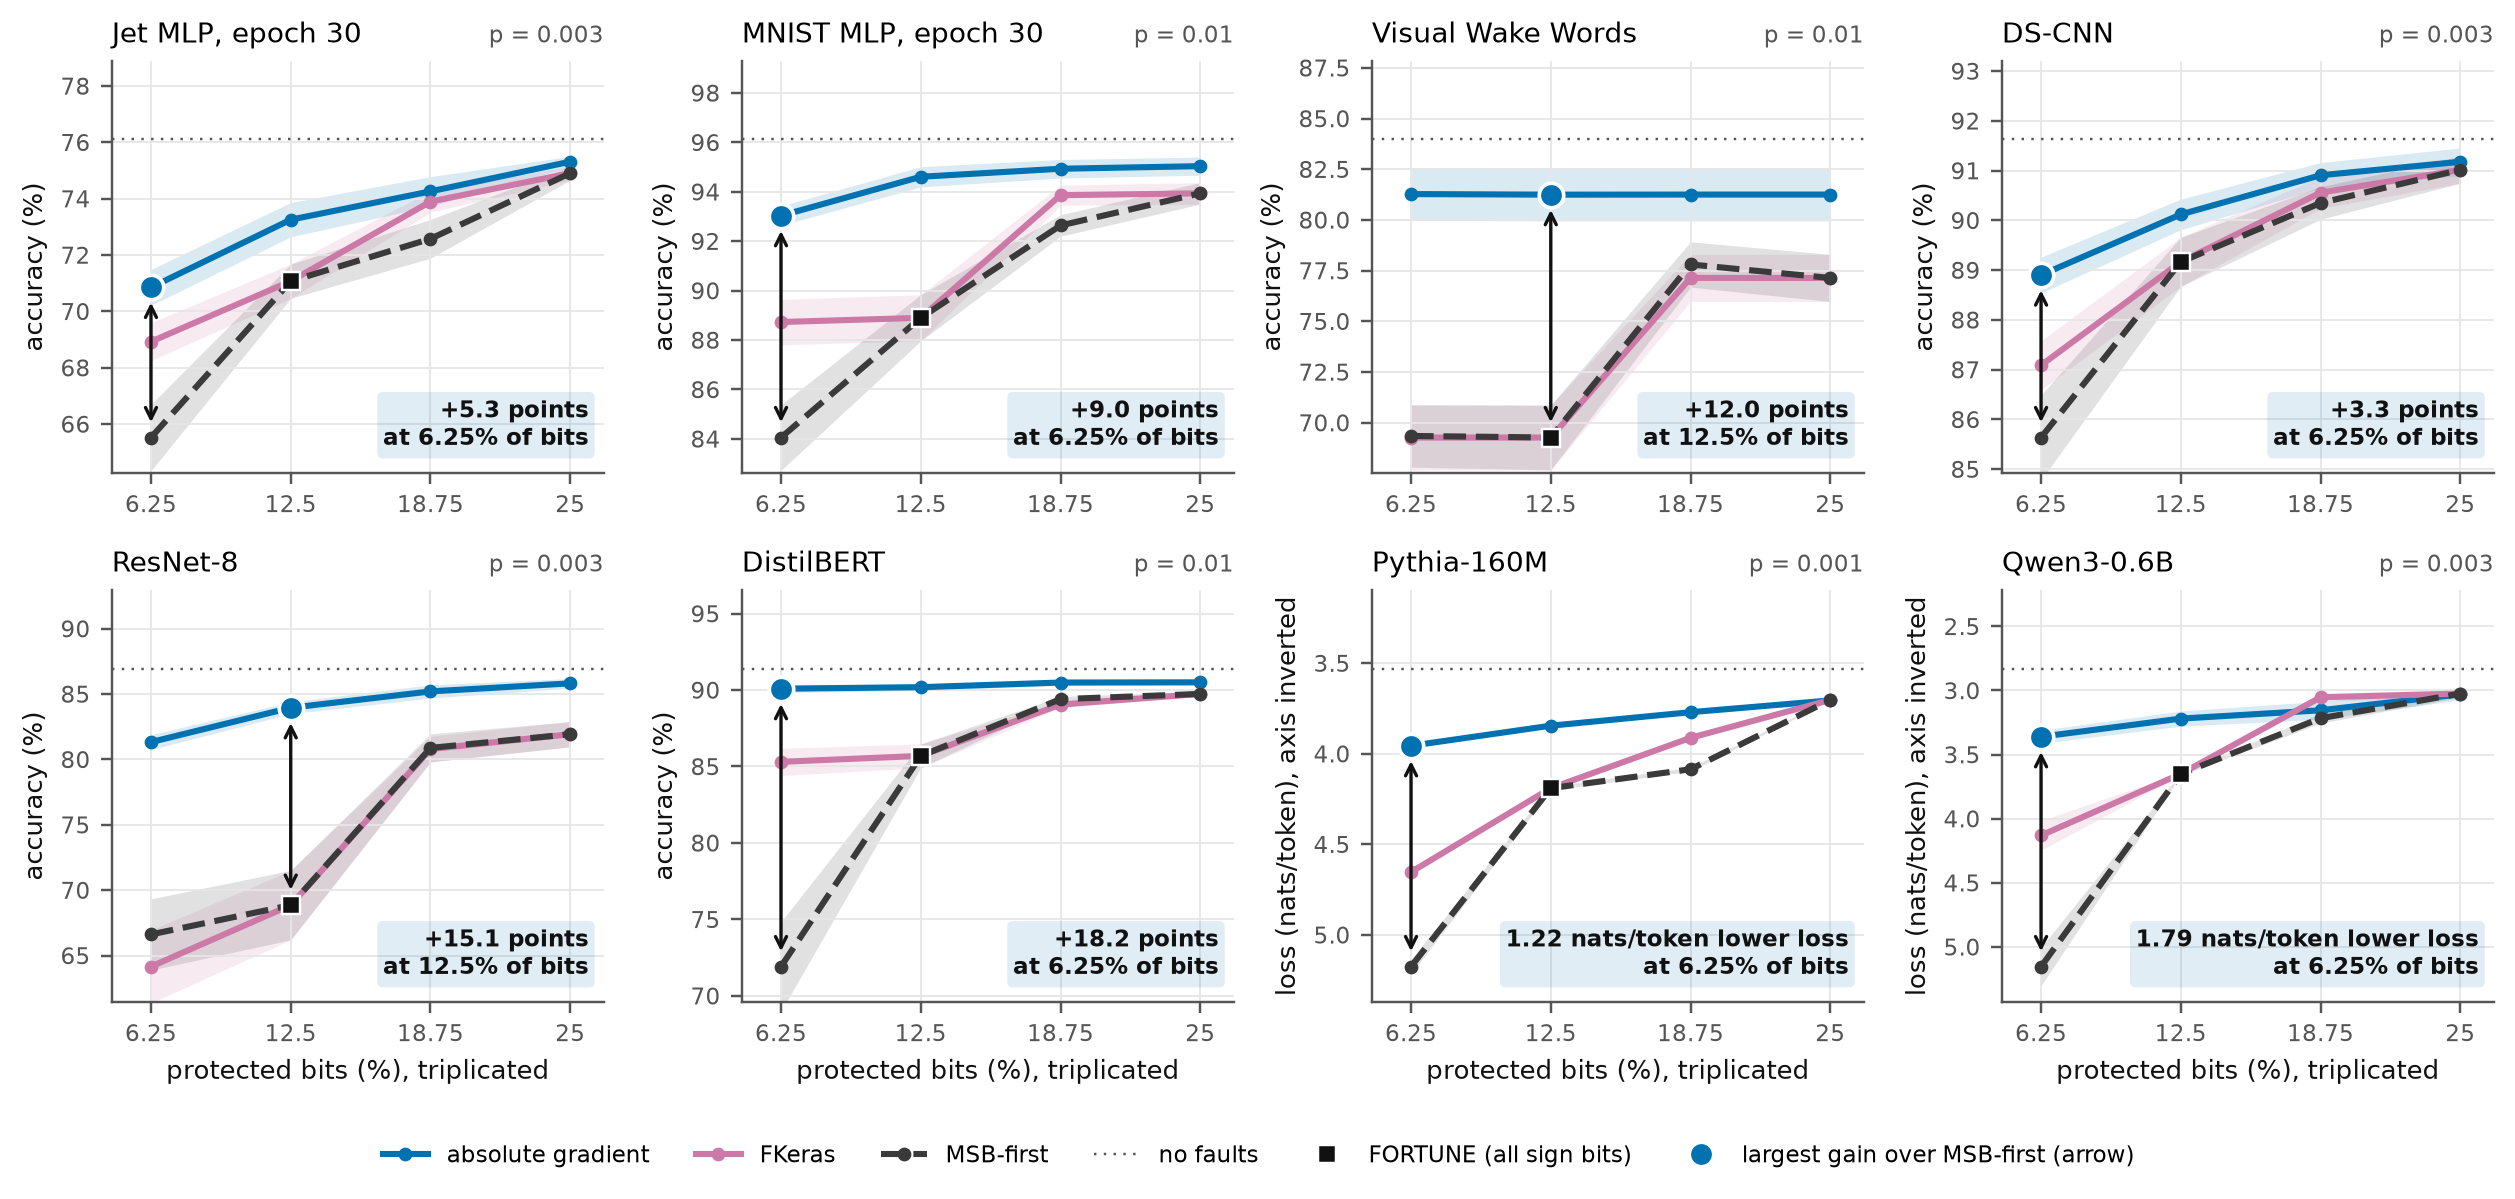
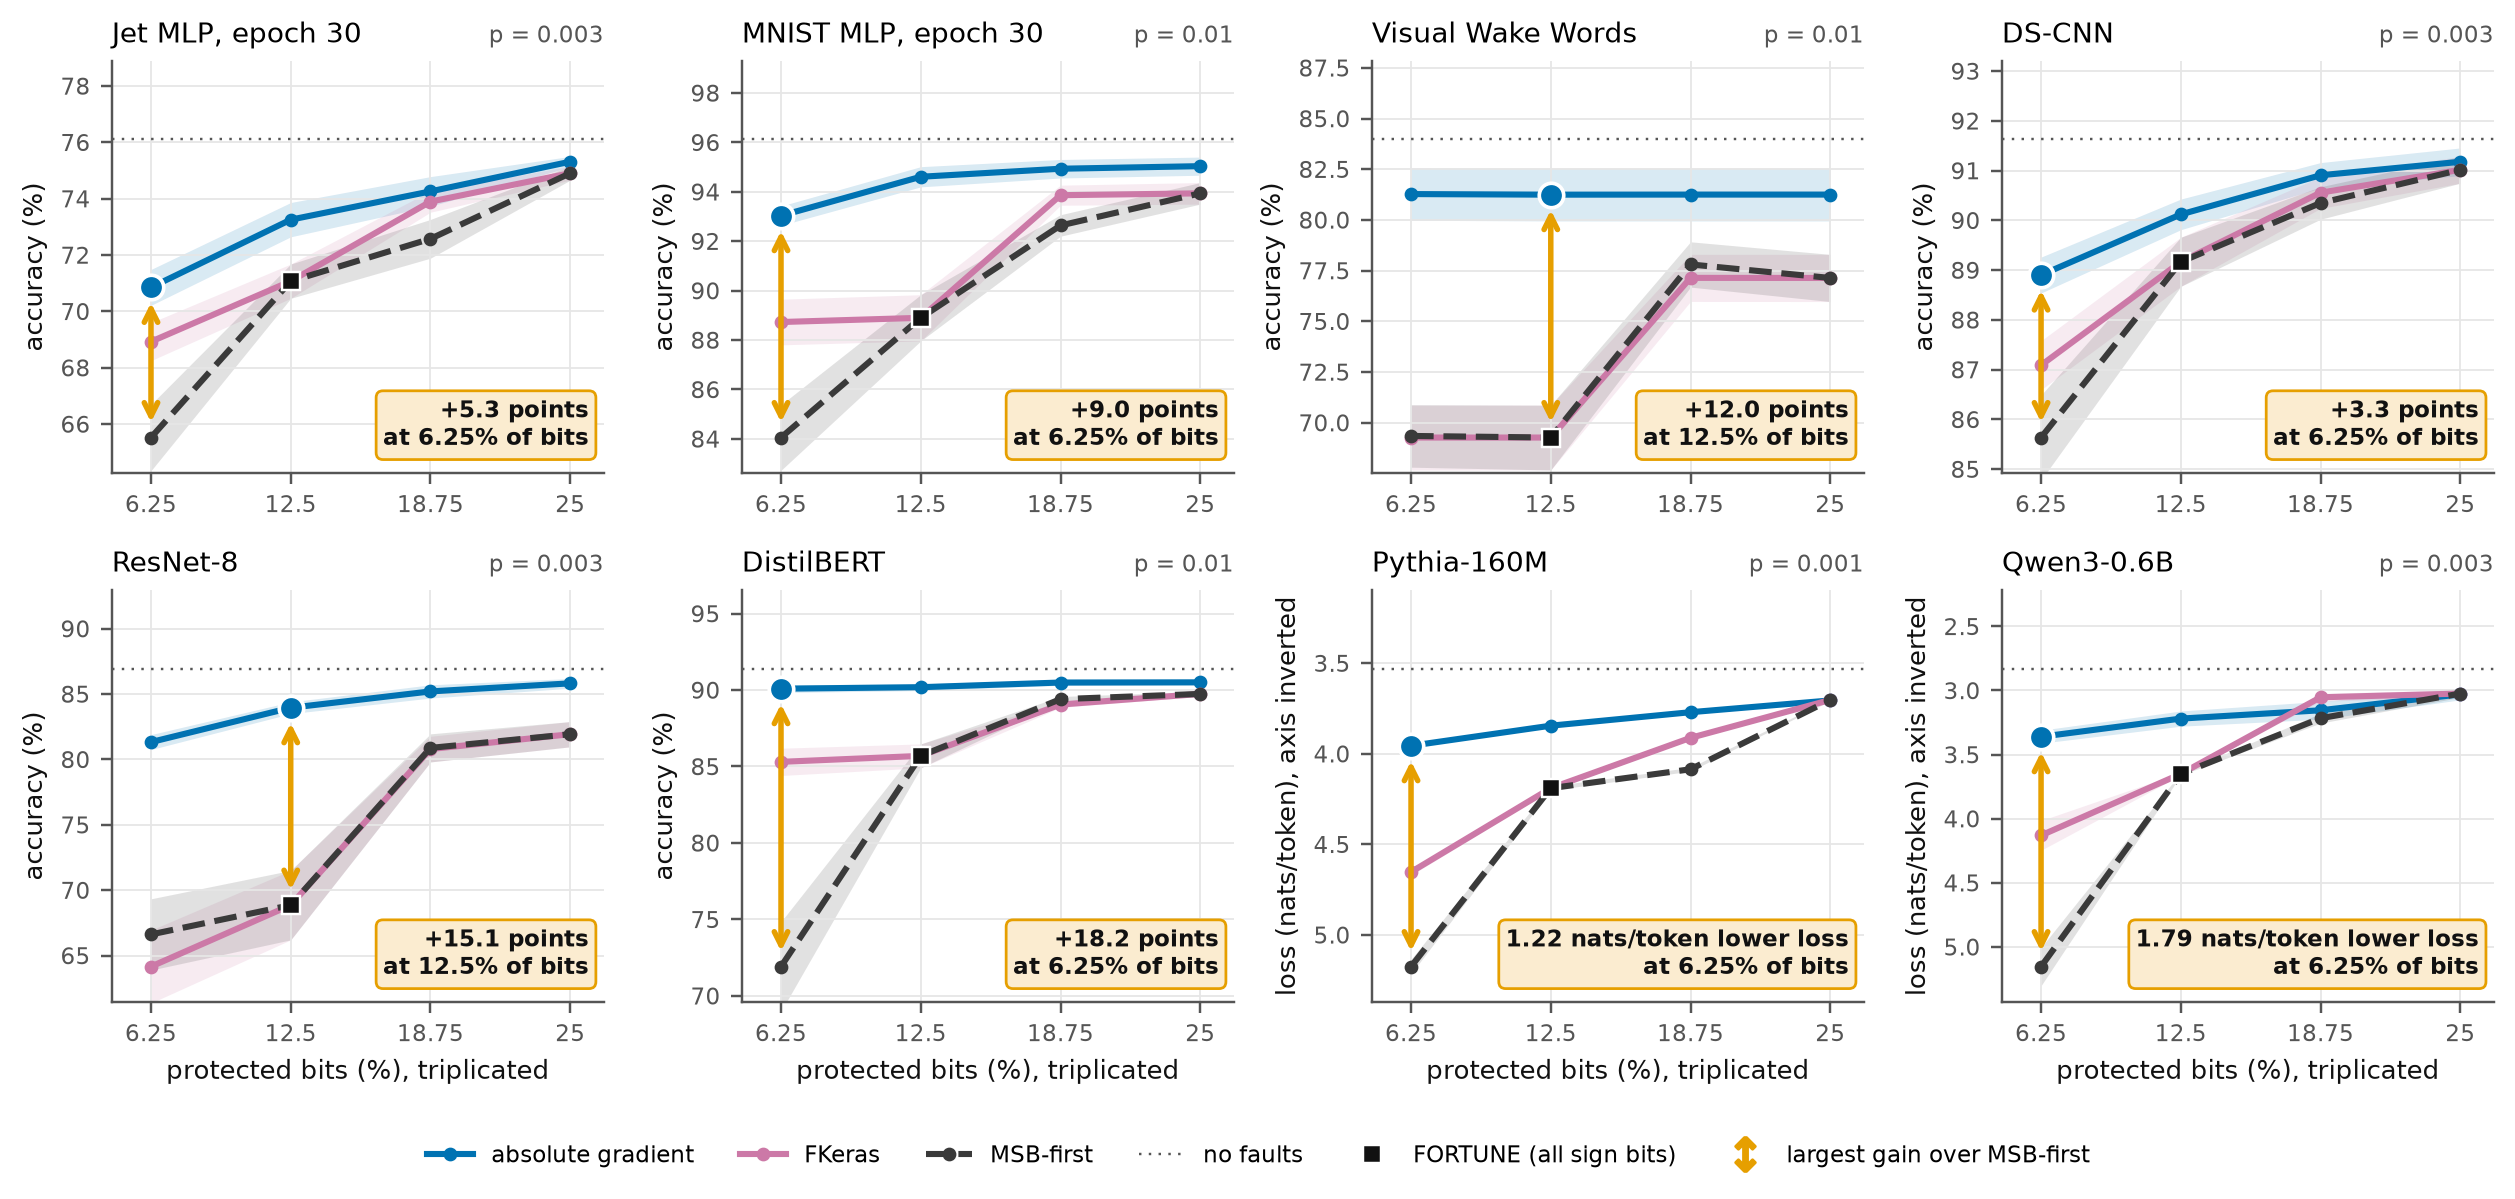
Headline figure: orange gain arrow and box, distinct from the MSB-first line

diff --git a/publications/paper1_review/scripts/build_paper_figures.py b/publications/paper1_review/scripts/build_paper_figures.py
@@ -65,6 +65,7 @@ HEAD = ["jet-e30", "mnist-e30", "vww", "dscnn", "resnet8-pinned", "distilbert_ss
 GRID = [1e-5, 1e-4, 3e-4, 1e-3, 3e-3, 1e-2, 3e-2, 1e-1]
 SHARES = (0.0625, 0.125, 0.1875, 0.25)
 FK, FKW = S.FK, S.FKW
+GAIN, GAIN_TINT = S.OI["orange"], "#fbecd0"           # the gain annotation: a colour no curve uses here
 S.apply()
 
 
@@ -136,14 +137,14 @@ def headline(tol, data, record):
         ax.plot([12.5], [fort], "s", color=S.INK, ms=6, mec="white", mew=0.8, zorder=5, label="FORTUNE (all sign bits)")
         gain = [(a - b) * (-1 if lower else 1) for a, b in zip(rec["abs"], rec["msb"])]
         k = int(np.argmax(gain))
-        ax.plot([x[k]], [rec["abs"][k]], "o", color=S.ABS, ms=8, mec="white", mew=1.2, zorder=6,
-                label="largest gain over MSB-first (arrow)")
+        ax.plot([x[k]], [rec["abs"][k]], "o", color=S.ABS, ms=8, mec="white", mew=1.2, zorder=6)
+        ax.plot([], [], ls="none", marker=r"$\updownarrow$", ms=11, color=GAIN, label="largest gain over MSB-first")
         lo_k, hi_k = sorted((rec["abs"][k], rec["msb"][k]))
         ax.annotate("", xy=(x[k], rec["abs"][k]), xytext=(x[k], rec["msb"][k]), zorder=7,
-                    arrowprops=dict(arrowstyle="<->", color=S.INK, lw=1.1, shrinkA=5, shrinkB=5, mutation_scale=9))
+                    arrowprops=dict(arrowstyle="<->", color=GAIN, lw=1.8, shrinkA=5, shrinkB=5, mutation_scale=11))
         txt = (f"+{gain[k]:.1f} points" if not lower else f"{gain[k]:.2f} nats/token lower loss") + f"\nat {x[k]:g}% of bits"
         ax.text(0.97, 0.05, txt, transform=ax.transAxes, ha="right", va="bottom", fontsize=7.5, color=S.INK,
-                fontweight="bold", bbox=dict(boxstyle="round,pad=0.25", fc=S.BETTER, ec="none", alpha=0.12))
+                fontweight="bold", bbox=dict(boxstyle="round,pad=0.3", fc=GAIN_TINT, ec=GAIN, lw=0.9))
         ax.set_title(NAMES[cid], loc="left")
         ax.set_title(f"p = {p:g}", loc="right", fontsize=7.5, color=C.INK2)
         ax.set_xticks(x, ["6.25", "12.5", "18.75", "25"])
